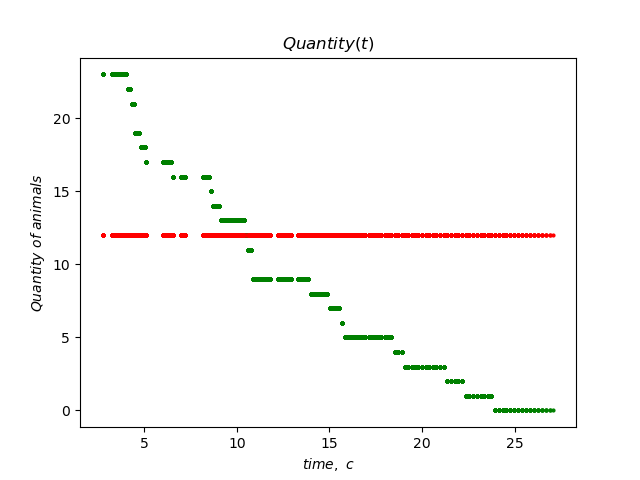
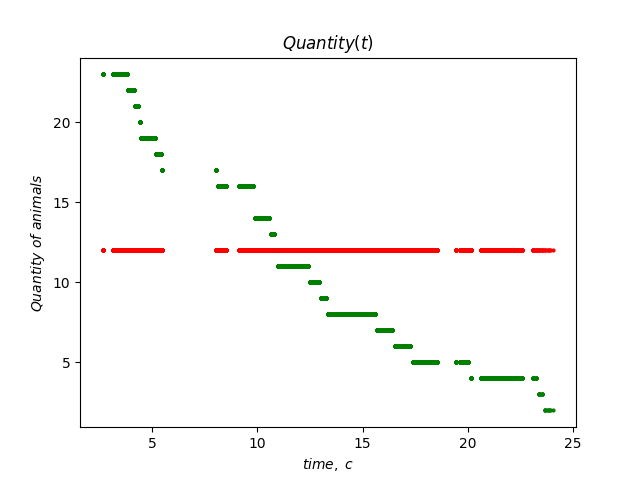
Костыль с озёрами

diff --git a/Main.py b/Main.py
@@ -1,7 +1,6 @@
 from Animals import *
 from Landscape import *
 import time
-import matplotlib.pyplot as plt
 
 def create_started_window():
     window = tk.Tk()
@@ -37,7 +36,7 @@ def create_started_window():
 global length, heigth
 length, height = 800, 600
 
-quant_cattle = 23
+quant_cattle = 230
 cattle = [0] * quant_cattle
 for i in range(quant_cattle):  # Заполняем карту жертвами
     cattle[i] = Cattle()
@@ -58,7 +57,7 @@ current_time = time.time()
 
 
 def main_game():
-    global delta_t, current_time, cattle, predators, quant_cattle
+    global delta_t, current_time, cattle, predators
     delta_t = time.time() - current_time
     current_time = time.time()
 
@@ -72,7 +71,6 @@ def main_game():
                 r_min = r
         if p.nearest_cattle is not None:
             if p.nearest_cattle.death():
-                quant_cattle -= 1
                 cattle.remove(p.nearest_cattle)
                 del p.nearest_cattle
                 p.nearest_cattle = None
@@ -80,44 +78,11 @@ def main_game():
         p.move(delta_t)
 
     for c in cattle:  # Жизнь рогатого скота
-        for v in cattle:
-            while ((v.coord_x - x_lake) / (a_axle+0.5*R)) ** 2 + ((v.coord_y - y_lake) / (b_axle+0.5*R)) ** 2 <= 1:
-                v.coord_x = randint(20, length - 20)
-                v.coord_y = randint(20, length - 20)
+        while ((c.coord_x - x_lake) / (a_axle + 0.6 * R)) ** 2 + ((c.coord_y - y_lake) / (b_axle + 0.6 * R)) ** 2 <= 1:
+            c.coord_x = randint(20, length - 20)
+            c.coord_y = randint(20, length - 20)
         c.update()
         c.move(delta_t)
-    statistics("WildLifetest.png", delta_t)
-    print(Quant_cattle)
-    print(len(cattle))
-    print(Time)
-    print(time_live)
-
-
-Time = []
-time_live = 0
-Quant_cattle = []
-Quant_predators = []
-
-
-def statistics(file: str, delta_t):
-    """
-    :param file: filename.format
-    :param delta_t: update time
-    :return: graphics of population
-    """
-    global quant_cattle, quant_predators,\
-        Quant_cattle, Quant_predators, Time, time_live
-
-    plt.xlabel(r"$time,\ с$")
-    plt.ylabel(r"$Quantity\  of\  animals$")
-    plt.title(r"$Quantity(t)$")
-    Quant_cattle.append(quant_cattle)
-    Quant_predators.append(quant_predators)
-    time_live += delta_t
-    Time.append(time_live)
-    plt.plot(Time, Quant_cattle, 'ro', color='green', markersize=2)
-    plt.plot(Time, Quant_predators, 'ro', color='red', markersize=2)
-    plt.savefig(file)
 
 
 while RUNNING_MATYEGO:

diff --git a/Animals.py b/Animals.py
@@ -1,7 +1,7 @@
 import math
 global R, length, height
 R = 10
-length, height = 800,600
+length, height = 800, 600
 # from contracts import contract
 from Landscape import *
 
